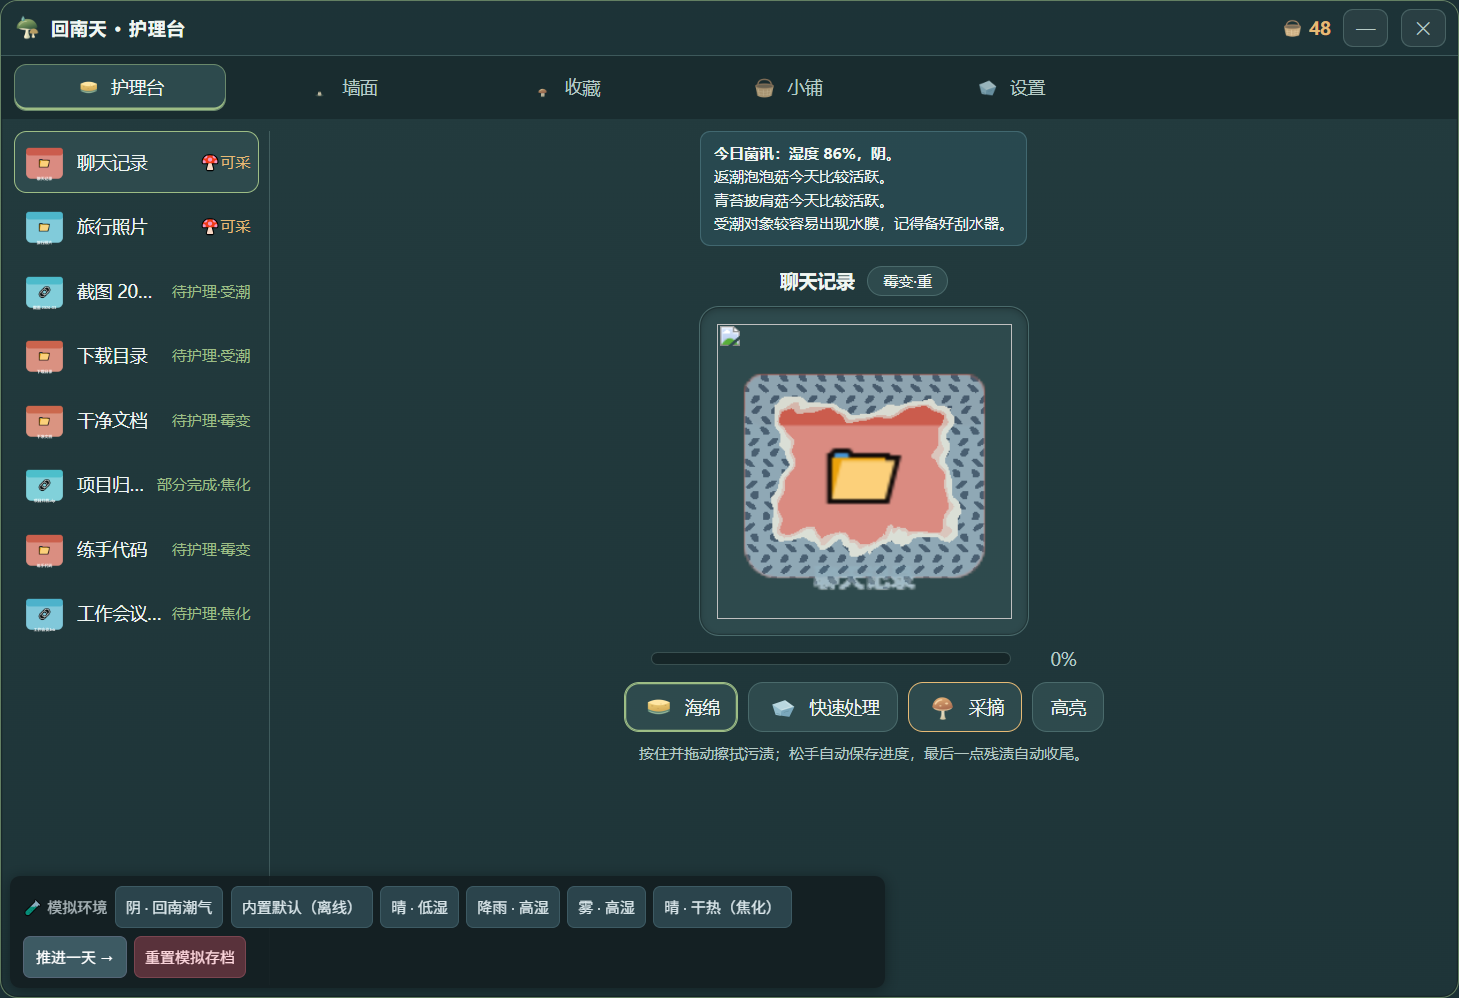
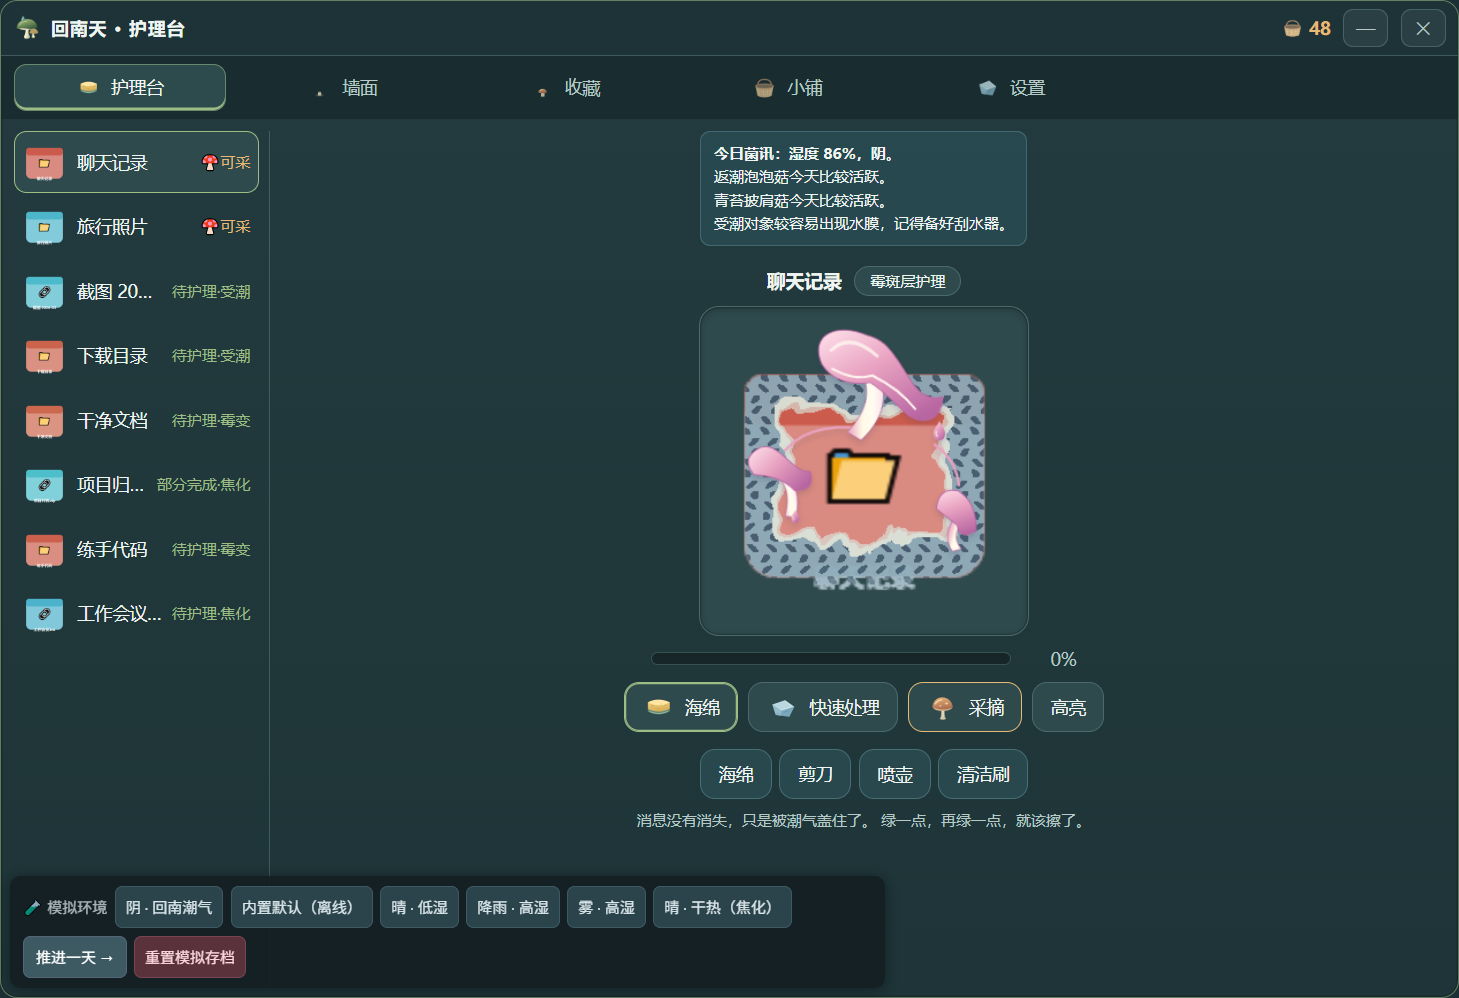
fix(review-4): preserve v4 daily ledger on read (only backfill v3 records), add wait-init gate to runDailyCycleV4, isolate mock build to dist/renderer-mock; 2 new regression tests (196 total)

diff --git a/src/world/daily-cycle.ts b/src/world/daily-cycle.ts
@@ -42,7 +42,7 @@ export interface DailyCycleDeps {
 }
 
 export interface DailyCycleResult {
-  action: 'paused' | 'wait-weather' | 'terminal' | 'settled' | 'created';
+  action: 'paused' | 'wait-weather' | 'wait-init' | 'terminal' | 'settled' | 'created';
   advanced: number;
   skipped: number;
   alert: AlertState;
@@ -84,6 +84,13 @@ export function runDailyCycleV4(deps: DailyCycleDeps): DailyCycleResult {
     { defaulted: deps.weatherDefaulted, now: deps.now, seed: deps.seed },
   );
   native.alert = alert;
+
+  // R4.1 / 计划 Task 5：INIT 未完成（未生成或进行中）不创建当天 DAILY 记录。
+  // 分支表在编排层（员工 2 的调度器保留 INIT 分支作第二道防线），本函数再挡一次。
+  const init = native.init ?? null;
+  if (init === null || init.status === 'active') {
+    return { action: 'wait-init', advanced: 0, skipped: 0, alert, record: null, dailyUsed: 0, spreadInserted: 0 };
+  }
 
   const existing = v4Events[date] ?? null;
   if (existing && isDailyTerminal(existing)) {

diff --git a/src/shared/save/save-schema.ts b/src/shared/save/save-schema.ts
@@ -307,9 +307,15 @@ function upgradeFieldsToV4(save: SaveData): SaveData {
   }
   const dailyEvents: NonNullable<SaveData['native']>['dailyEvents'] = {};
   for (const [date, record] of Object.entries(native.dailyEvents)) {
+    // v4 记录原样保留：slots/limit/alert 是当日额度与回放证据，
+    // 重启读档绝不能重写（员工2审查：每次读档补字段会抹掉当天账本）。
+    if ('slots' in record) {
+      dailyEvents[date] = record;
+      continue;
+    }
     dailyEvents[date] = {
       ...record,
-      // 旧日记录视为已结算：不重算、不补发
+      // 仅 v3 旧记录补字段：视为已结算，不重算、不补发
       limit: 1,
       alert: false,
       slots: [],

diff --git a/vite.config.ts b/vite.config.ts
@@ -18,8 +18,9 @@ export default defineConfig(({ command, mode }) => {
     root: 'src/renderer',
     base: './',
     build: {
-      // 相对 src/renderer 回溯两级 = 项目根 dist/renderer（与 package.json main 入口约定一致）
-      outDir: '../../dist/renderer',
+      // 生产：dist/renderer（electron-builder 打包范围）；模拟：dist/renderer-mock（独立目录，
+      // 避免 build:mock 覆盖生产产物后误跑 uat:care-ui 测到 mock 包）
+      outDir: includeMock ? '../../dist/renderer-mock' : '../../dist/renderer',
       emptyOutDir: true,
       rolldownOptions: { input },
     },

diff --git a/docs/contracts/save-format.md b/docs/contracts/save-format.md
@@ -5,7 +5,7 @@
 - 接受schemaVersion 1/2/3/4；当前 v3→v4 **字段迁移是纯增量**：新增 careSession/孢子/播种/警报与会话槽位，但保留并镜像旧 careProgress/careMask，文件 schemaVersion 仍写 3（旧版程序 validateSave 只认 1/2/3，回退可读）。员工 2 的 v4 读写路径就绪后再把版本号提升到 4。损坏、非有限数或越界字段返回校验失败，不能静默吞掉非法状态。
 - 保留player、weather、files、ropes、stats等兼容段，旧files/ropes仅供读取与迁移，不再启动旧场景。owned/币数与旧有效数据不能随资料清理丢失。
 - native段包含首批固定计划、每日唯一账本、对象损伤/菇/护理进度/掩码、防霉到期、城市和最近天气、收藏、一次引导与暂停/恢复状态。
-- v4（gameplay-v2 契约）：对象新增 objectCategory/careSession/glossUntil；native 段新增 spores（孢子库存，仅13款新品种）、planted（播种登记）、alert（回南天警报）、fineCareCount、overlayVariant；日账本记录升级为含 limit/alert/slots 的槽位模型（v3 旧记录迁移时补 limit:1、alert:false、slots:[]，视为已结算）。旧单层 careMask/careProgress 迁为对应族上层的 careSession（受潮→droplets、霉变→mold、焦化→soot），**旧字段保留并镜像（只增不减）**，主进程 native-handlers 与旧版回退继续可读；收藏原样保留。已有 careSession 的对象重复迁移不重建（不覆盖 v2 写入进度）。
+- v4（gameplay-v2 契约）：对象新增 objectCategory/careSession/glossUntil；native 段新增 spores（孢子库存，仅13款新品种）、planted（播种登记）、alert（回南天警报）、fineCareCount、overlayVariant；日账本记录升级为含 limit/alert/slots 的槽位模型（v3 旧记录迁移时补 limit:1、alert:false、slots:[]，视为已结算）。旧单层 careMask/careProgress 迁为对应族上层的 careSession（受潮→droplets、霉变→mold、焦化→soot），**旧字段保留并镜像（只增不减）**，主进程 native-handlers 与旧版回退继续可读；收藏原样保留。已有 careSession 的对象重复迁移不重建（不覆盖 v2 写入进度）。v4 日账本记录（含 slots/limit/alert）读档时原样保留，迁移只给 v3 旧记录补字段——重启不会抹掉当天额度与回放证据。
 - careMask为64×64擦拭掩码的base64：0.1.26起按512字节（全部4096格）编码；≤0.1.25旧值只有64字节（顶部8行），解码兼容并按原状恢复，旧存档中下部已丢失的擦拭记录不可恢复、不补造。编解码实现与往返回归见 `src/shared/care-mask.ts` 与 `scripts/test-care-mask.mjs`。
 - v1/v2升级标记legacy-initialized，不重发首批与奖励；重复迁移保持幂等。字段细节和边界以类型及validateSave/migrateSave为准。
 - 保存复用临时文件与原子rename。图标原值恢复登记、天气缓存与游戏存档分别管理；写图标前登记恢复信息，恢复核对引用归属。

diff --git a/docs/contracts/employee1-handoff-2026-10-26.md b/docs/contracts/employee1-handoff-2026-10-26.md
@@ -69,6 +69,14 @@
 | 次要：AGENTS.md 与 v4 矛盾 | 根/世界指南与 PRODUCT.md 缺席合并条款改为 v0.2 日额度（3/5 共用额度）。 |
 | 次要：probe-species-mushroom 假失败 | 改用 `imgs/loadState` 判定，退出码正确。 |
 
+## 员工 2 审查修复（第四轮，2026-10-27）
+
+| 审查项 | 处理 |
+|---|---|
+| #1 重启读档抹掉当天 v4 账本 | `upgradeFieldsToV4` 对 `dailyEvents` 增加 `'slots' in record` 判断：v4 记录原样保留（limit/slots/seed 不重写），只给 v3 旧记录补 `limit:1,alert:false,slots:[]`。回归测试：`runDailyCycleV4 → migrateSave → 再 cycle`，记录 deepEqual 不变、额度仍为 3、第二次为 terminal 不重复推进。 |
+| #2 runDailyCycleV4 未检查 INIT | 新增 `wait-init` 动作：`native.init` 为 null（未生成）或 `status:'active'` 时返回 wait-init、不创建 DAILY 记录；`legacy-initialized`/`completed` 正常发放。测试覆盖四种 init 状态。员工 2 的调度器保留 INIT 分支作第二道防线。 |
+| 小问题：build:mock 覆盖生产产物 | mock 构建改输出到 `dist/renderer-mock`；探针静态服务器只服该目录，`verifyMockBuild` 提示同上。生产 `dist/renderer` 不会被 mock 构建动到，`dist:win` 与 `uat:care-ui` 不再受探针顺序影响。 |
+
 ## 验证环境声明（员工 2 审查补充）
 
 - 计划书设定员工 1 在 macOS 开发，但本批提交实际在 **Windows 本机**完成（Git 作者身份与员工 2 相同，无 Mac 端提交）。模拟环境是纯浏览器页面（Vite + Chromium），不自带平台相关代码；**未在 Apple 硬件上跑过**，不算 Mac 验收。
